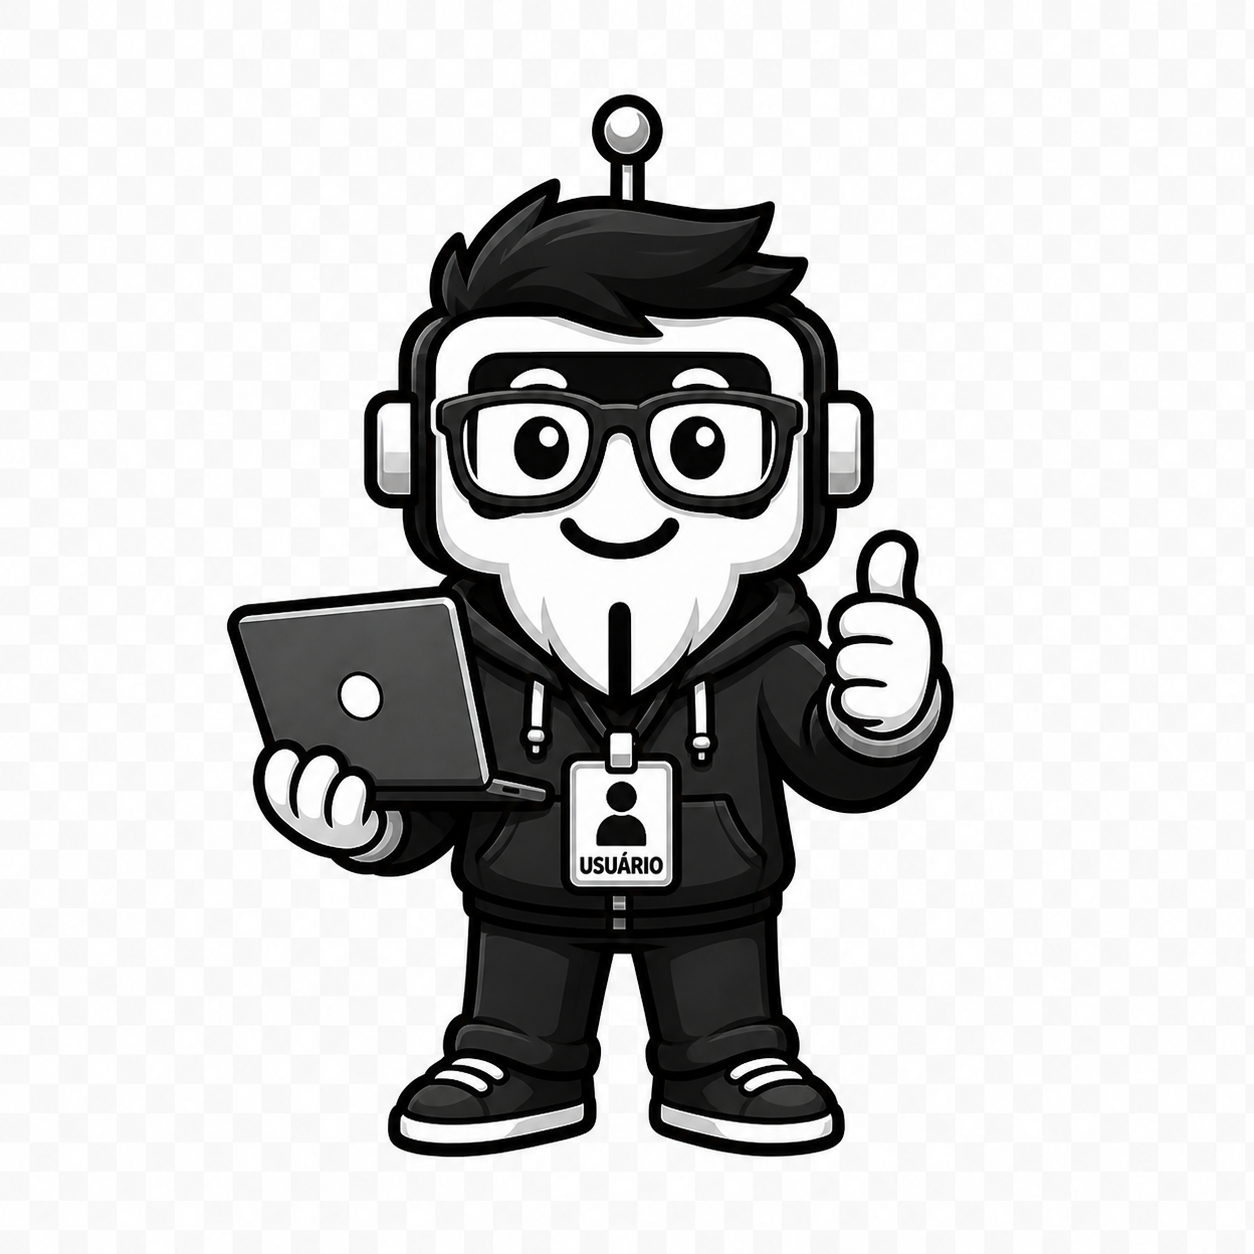
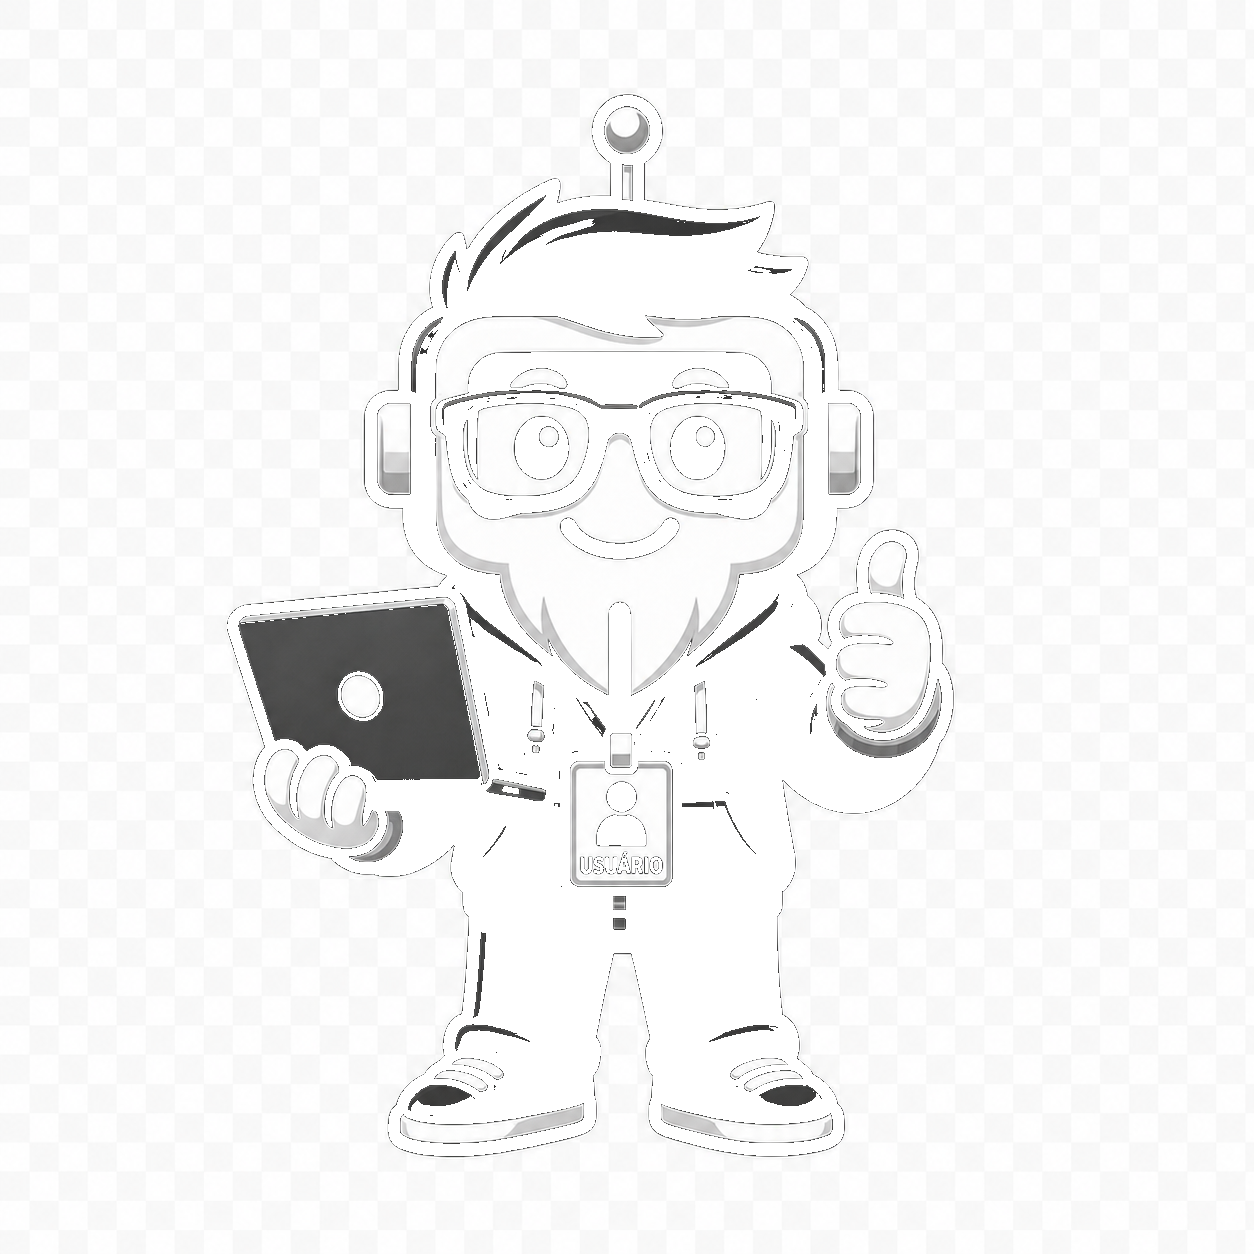
fix(office): balão do utilizador, arestas no replay e user-default com alpha
- USER_FEET_Y mínimo 32% do canvas; balão abaixo dos pés para o utilizador; topPct mínimo para outros
- output: fromAgentId/actorId canónicos; agent_response from = fromAgentId ?? actorId
- user-default: fundo preto -> transparente (ImageMagick) em assets e public/office

Changed region(s): [[0.1866, 0.0622, 0.7775, 0.933], [0.2799, 0.5287, 0.311, 0.5598]]

diff --git a/v0-team-ai-crafter/components/office/agent-office-overlay.tsx b/v0-team-ai-crafter/components/office/agent-office-overlay.tsx
@@ -10,6 +10,9 @@ import { OFFICE_USER_AGENT_ID, type OfficeAgentVisualState, type OfficeEvent } f
 
 const BUBBLE_MAX = 168
 
+/** Minimum top % when anchoring above the character (prevents clipping under overflow-hidden). */
+const MIN_TOP_PCT_ABOVE = 12
+
 function truncate(text: string, max: number): string {
   const t = text.replace(/\s+/g, " ").trim()
   if (t.length <= max) return t
@@ -27,7 +30,7 @@ function bubbleSpeaker(event: OfficeEvent, agents: OfficeAgentVisualState[], coo
     case "agent_handoff":
       return event.toAgentId ?? event.fromAgentId ?? null
     case "agent_response":
-      return event.actorId ?? null
+      return event.actorId ?? event.fromAgentId ?? null
     case "agent_thinking":
     case "tool_call":
     case "tool_result":
@@ -58,11 +61,25 @@ export function AgentOfficeOverlay({
       : speaker?.name ?? (speakerId ? `Agente ${speakerId.slice(0, 8)}…` : "Evento")
 
   const leftPct = speaker ? clampPct((speaker.x / OFFICE_GAME_WIDTH) * 100, 6, 94) : 50
-  /** Anchor near upper body / head so the bubble sits above the sprite, not over the torso. */
-  const anchorGameY = speaker
-    ? speaker.y - AGENT_MAX_DISPLAY_HEIGHT * BUBBLE_ANCHOR_HEIGHT_RATIO
-    : OFFICE_GAME_HEIGHT * 0.06
-  const topPct = (anchorGameY / OFFICE_GAME_HEIGHT) * 100
+
+  let topPct: number
+  let transform: string
+  if (speaker) {
+    if (speakerId === OFFICE_USER_AGENT_ID) {
+      /** Below feet — avoids bubble extending above the clipped top of the panel. */
+      const belowFeetGameY = speaker.y + 14
+      topPct = (belowFeetGameY / OFFICE_GAME_HEIGHT) * 100
+      transform = "translate(-50%, 6px)"
+    } else {
+      const anchorGameY = speaker.y - AGENT_MAX_DISPLAY_HEIGHT * BUBBLE_ANCHOR_HEIGHT_RATIO
+      const rawTopPct = (anchorGameY / OFFICE_GAME_HEIGHT) * 100
+      topPct = Math.max(MIN_TOP_PCT_ABOVE, rawTopPct)
+      transform = "translate(-50%, calc(-100% - 12px))"
+    }
+  } else {
+    topPct = 6
+    transform = "translate(-50%, calc(-100% - 12px))"
+  }
 
   return (
     <div
@@ -70,7 +87,7 @@ export function AgentOfficeOverlay({
       style={{
         left: `${leftPct}%`,
         top: `${topPct}%`,
-        transform: "translate(-50%, calc(-100% - 12px))",
+        transform,
       }}
     >
       <p className="text-xs font-medium text-muted-foreground">{title}</p>

diff --git a/v0-team-ai-crafter/lib/office/office-visual-constants.ts b/v0-team-ai-crafter/lib/office/office-visual-constants.ts
@@ -8,7 +8,12 @@ export const AGENT_MAX_DISPLAY_HEIGHT = Math.round(OFFICE_GAME_HEIGHT * 0.2)
 
 /** Feet Y must be large enough that sprite top (feetY − height) stays inside the canvas. */
 export const USER_FEET_MARGIN_TOP = 12
-export const USER_FEET_Y = AGENT_MAX_DISPLAY_HEIGHT + USER_FEET_MARGIN_TOP
+
+/** Lower band (~floor zone): avoids user + dialogue bubble clipping at top of scene. */
+export const USER_FEET_Y = Math.max(
+  AGENT_MAX_DISPLAY_HEIGHT + USER_FEET_MARGIN_TOP,
+  Math.round(OFFICE_GAME_HEIGHT * 0.32),
+)
 
 /**
  * Overlay bubble anchor: approximate upper body/head from feet position (game coords).

diff --git a/v0-team-ai-crafter/lib/office/office-event-mapper.ts b/v0-team-ai-crafter/lib/office/office-event-mapper.ts
@@ -69,14 +69,15 @@ export function mapTimelineItemToOfficeEvent(
   }
 
   if (item.kind === "output") {
+    const outputSpeakerId = fromAgentId ?? item.actorId
     return {
       id: item.id,
       seq: item.seq,
       timestamp: item.timestamp,
       type: "agent_response",
-      fromAgentId: fromAgentId ?? item.actorId,
+      fromAgentId: outputSpeakerId,
       toAgentId: toAgentId ?? context.coordinatorId,
-      actorId: item.actorId,
+      actorId: outputSpeakerId,
       message,
       original: item,
     }

diff --git a/v0-team-ai-crafter/components/office/agent-office-scene.ts b/v0-team-ai-crafter/components/office/agent-office-scene.ts
@@ -309,7 +309,7 @@ export class AgentOfficeScene extends Phaser.Scene {
     }
 
     if (event.type === "agent_response") {
-      const from = event.actorId
+      const from = event.fromAgentId ?? event.actorId
       const to = event.toAgentId ?? event.fromAgentId ?? coordinatorFallback?.agentId
       this.focusAgents(from, to)
       this.drawDirectedCommunication(from, to)